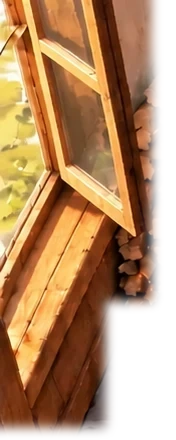
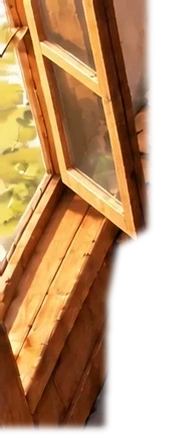
Prozor: poravnata slika otvorenog prozora (nema pomeranja slike ispod)
Claude-Session: https://claude.ai/code/session_01GMM3Rnq6i1o8tZEuJzXhvg

diff --git a/js/window-open.js b/js/window-open.js
@@ -10,7 +10,7 @@ function build(){
   if(box&&box.parentNode===sc)return true;
   box=document.createElement('div');box.id='windowOpen';
   box.style.cssText='position:absolute;left:0;top:0;width:'+W+'px;height:'+H+'px;pointer-events:none;z-index:1;transform-origin:0 40%;will-change:transform,opacity;opacity:'+(open?1:0);
-  inner=document.createElement('div');inner.style.cssText='position:absolute;inset:0;background:url(assets/effects/prozor_otvoren.webp?v=1) 0 0/100% 100% no-repeat';
+  inner=document.createElement('div');inner.style.cssText='position:absolute;inset:0;background:url(assets/effects/prozor_otvoren.webp?v=4) 0 0/100% 100% no-repeat';
   box.appendChild(inner);
 sc.appendChild(box);
   hot=document.createElement('div');hot.id='windowHot';hot.title='Otvori / zatvori prozor';

diff --git a/index.html b/index.html
@@ -214,7 +214,7 @@
 <script src="js/grill-fire.js?v=7"></script>
 <script src="js/day-light.js?v=32"></script>
 <script src="js/sun-shadow.js?v=7"></script>
-<script src="js/window-open.js?v=6"></script>
+<script src="js/window-open.js?v=9"></script>
 <script src="js/pitcher-pour.js?v=4"></script>
 <script src="js/kitchen-fixtures.js?v=71"></script>
 <script src="js/sink-dishes.js?v=2"></script>

diff --git a/NOTES.md b/NOTES.md
@@ -907,3 +907,4 @@ Kad serving.js nacrta sliku posude, sakriva staru masku prednjeg zida (ona je U-
 - Senka jednog predmeta: dugme „Nišani“ u alatu → klik na predmet na sceni → klizači (dužina ×, jačina ×, smer +, pomeraj X/Y, širina ×, visina ×, rotacija +, mekoća +) važe za taj tip predmeta preko podešavanja za dan (`cfg.shItems`, čuva se i u JSON-u).
 - Prozor se otvara klikom (js/window-open.js): isečak slike sa otvorenim prozorom (assets/effects/prozor_otvoren.webp) preko kuhinje samo oko prozora, bez animacije (slika se menja odmah, kao fioka ispod rerne); Noću se prikazuje zatvoren prozor (noćna slika). Stanje se pamti u localStorage.
 - Zvuk prozora: „Prozor“ je u alatu za zvukove (Nišani → klik na prozor; akcije „open“/„close“). Podrazumevano koristi zvuk vrata šporeta (stoveDoorOpen/Close), može da se zameni u alatu. Uklonjeno je kopirano drugo krilo – ostaje samo krilo sa slike.
+- Isečak otvorenog prozora poravnat sa originalnom slikom (ChatGPT slika je bila pomerena ~1–5 px nadole, raste ka dnu, i 1 px udesno); drvene cepanice ispod krila ostaju originalne, pa se pri otvaranju menja samo prozor.
